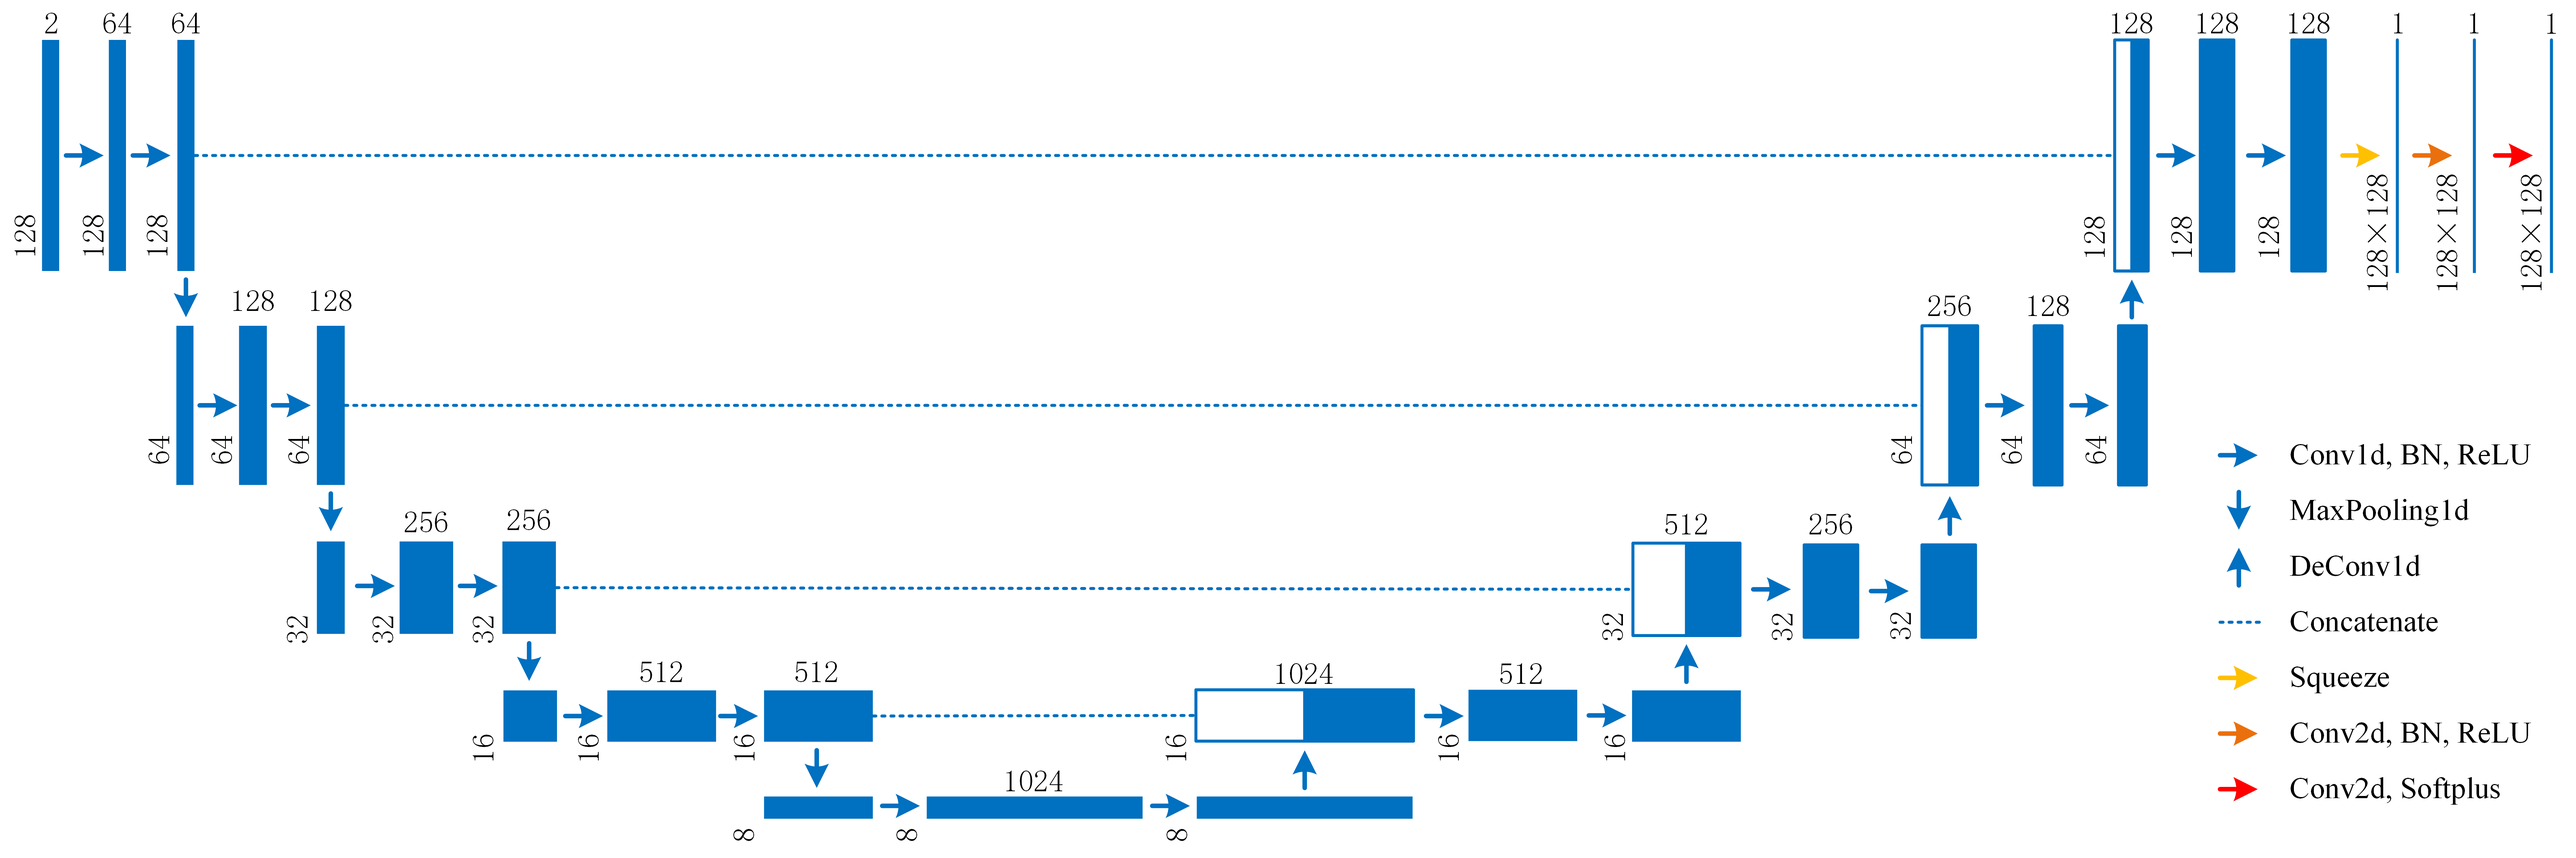
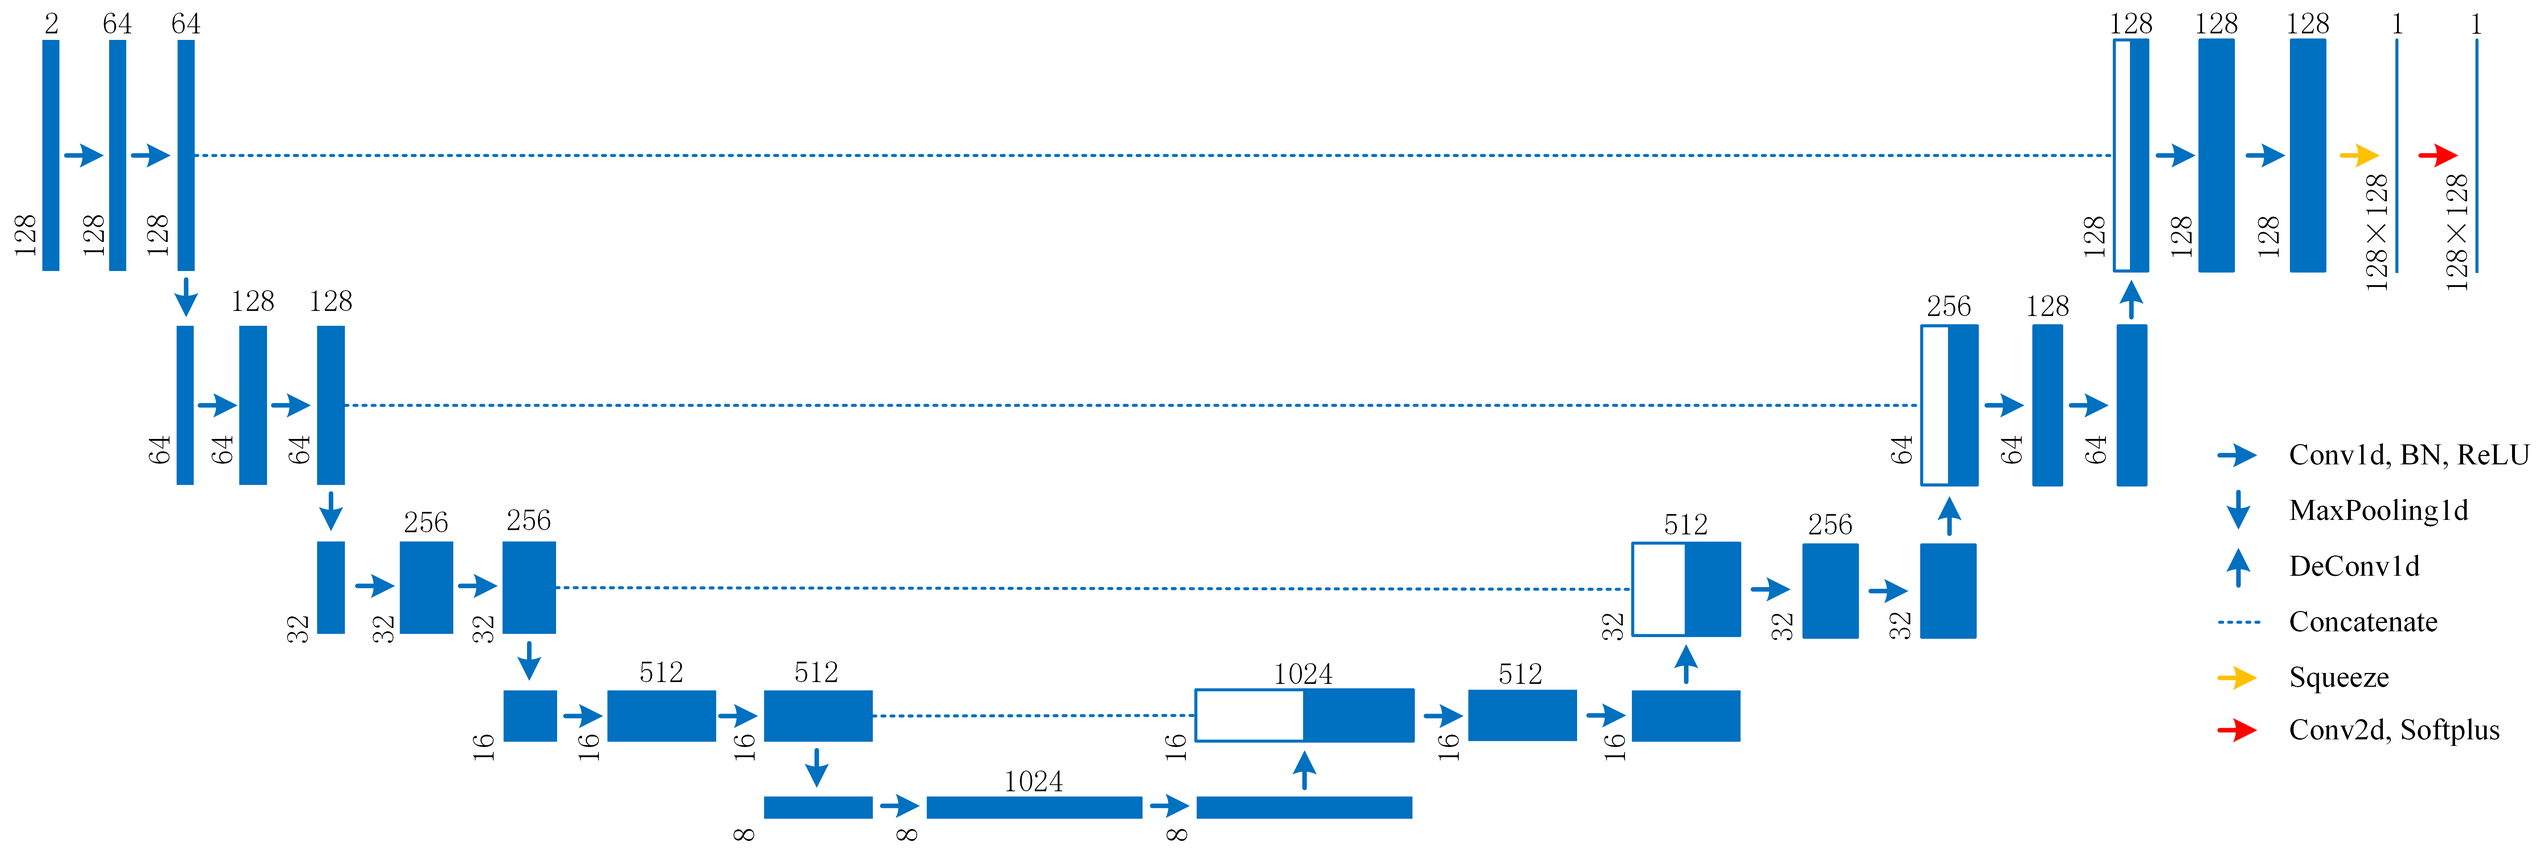
docs: update the documentation of the UNet model

diff --git a/2D_benchmark/train.py b/2D_benchmark/train.py
@@ -1,10 +1,10 @@
 import os
-from src import main_train
+from src import train_unet
 
 if __name__ == "__main__":
     root = r"E:\Research\benchmark\2D_benchmark"
     
-    main_train(
+    train_unet(
         save_dir = os.path.join(root, "unet"),
         device = "cuda",
         max_epoch = 200,

diff --git a/2D_benchmark/src/train_unet.py b/2D_benchmark/src/train_unet.py
@@ -13,7 +13,7 @@ from .model import get_model, save_checkpoint, load_checkpoint
 from .loss import CombinedLoss
 from .evaluate import CombinedMetric
 
-def main_train(
+def train_unet(
     save_dir: str,
     device: str,
     max_epoch: int = 200,

diff --git a/2D_benchmark/src/__init__.py b/2D_benchmark/src/__init__.py
@@ -1,7 +1,7 @@
-from .train import main_train
+from .train_unet import train_unet
 from .visualize import visualize
 
 __all__ = [
-    "main_train",
+    "train_unet",
     "visualize",
 ]
